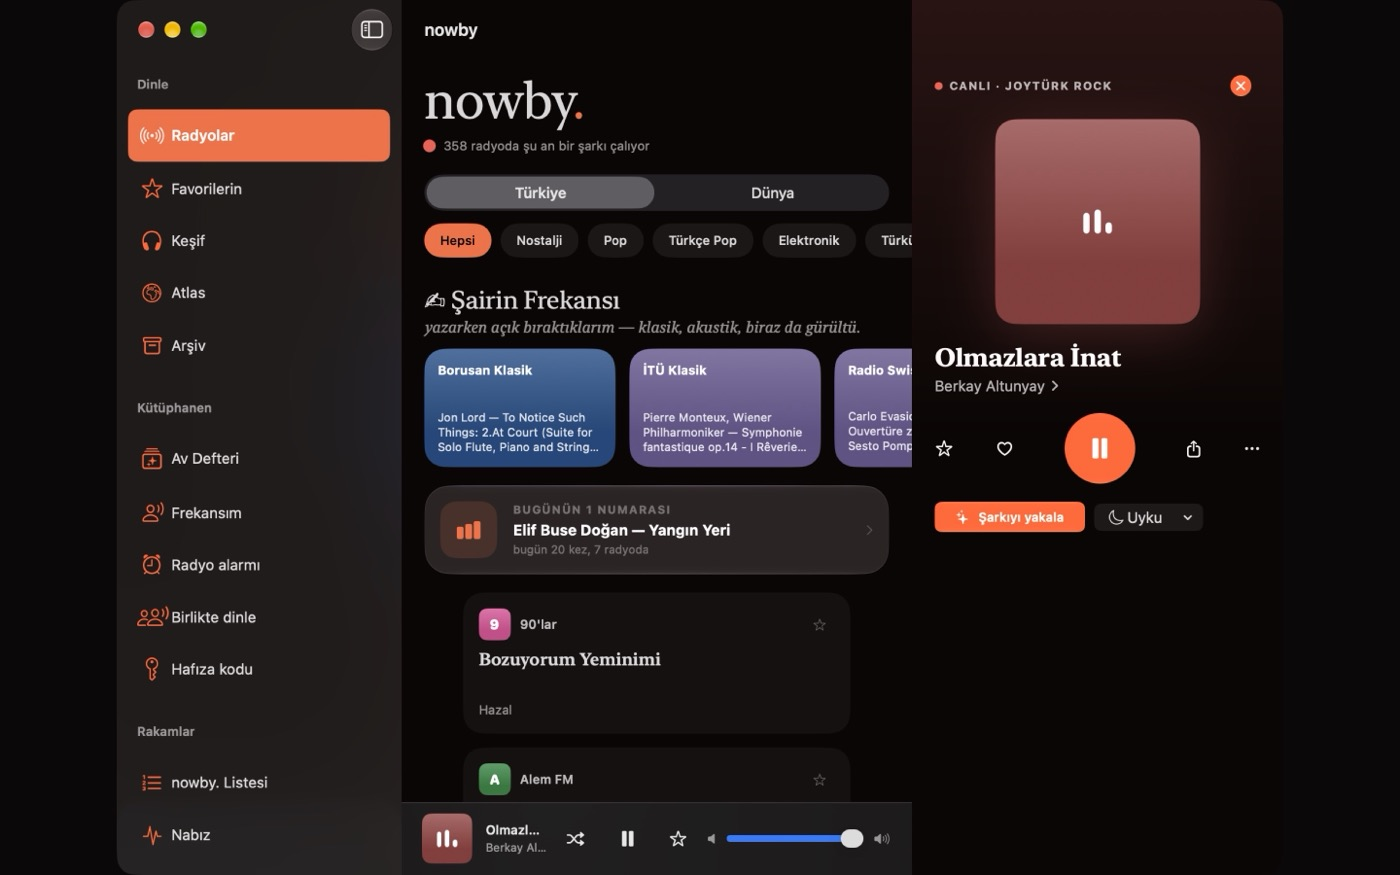
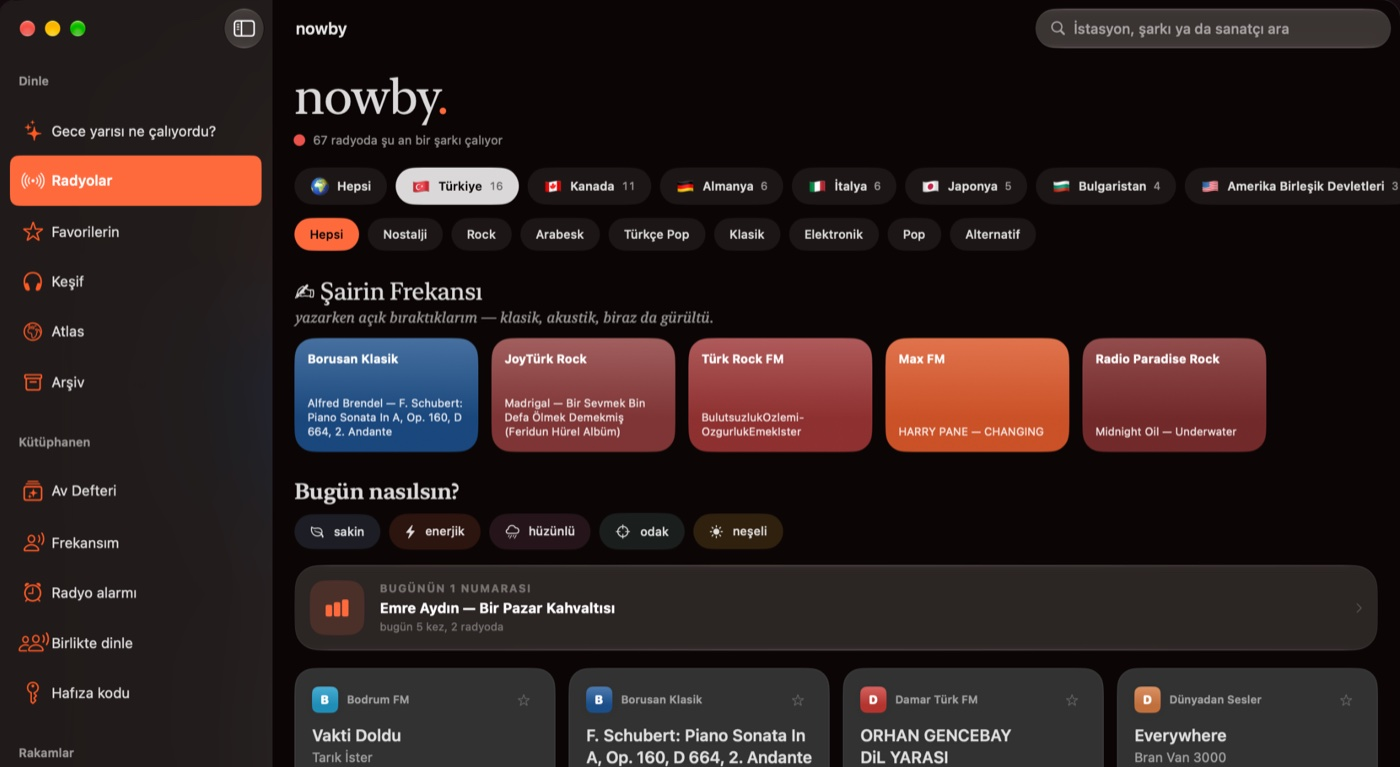
Uygulamalar (/by): her uygulamada nerede olduğu (App Store, Microsoft Store, Android testte, Watch yakında, web), nowby'a güncel Mac kartı; basın kiti 75 radyo / 19 ülke

diff --git a/components/AtolyeMetinleri.ts b/components/AtolyeMetinleri.ts
@@ -22,6 +22,12 @@ export const ATOLYE_TR: AtolyeMetin = {
       id: "hereby", ad: "hereby", renk: MOR, soru: "Nerede?", href: "/hereby", link: "hereby.'yi tanı",
       m: "Aklından geçen satırı geçtiğin yere bırak. Onu yalnızca oraya gelen biri okuyabilir. Kitaplardan satırlarla şiir yürüyüşleri, zaman kapsülleri, kendine notlar.",
       ilke: "Hiçbir iz sayılmaz, sıralanmaz.",
+      durum: [
+        { c: "iPhone", d: "App Store'da", href: "https://apps.apple.com/app/id6825787016" },
+        { c: "Apple Watch", d: "Yakında" },
+        { c: "Android", d: "Testte" },
+        { c: "Web", d: "Işık haritası", href: "/hereby" },
+      ],
       video: "/by/hereby-koyu.mp4", poster: "/by/hereby-koyu.jpg", telefon: "hereby. uygulamasının ekranı",
       adimlar: [
         { b: "Bırak.", s: "Bir vapur iskelesinde, bir merdivende, bir sahilde aklından geçeni yaz. En fazla 280 karakter." },
@@ -33,9 +39,16 @@ export const ATOLYE_TR: AtolyeMetin = {
       id: "nowby", ad: "nowby", renk: TURUNCU, soru: "Ne zaman?", href: "/nowby", link: "nowby'ı tanı",
       m: "Radyolarda şu an ne çalıyor? Yayınlarını paylaşmamıza izin veren radyolar tek ekranda, canlı. Gerçek sayıma dayanan listeler, dünyanın radyoları, kitaplardan dizelerle Frekans Falı.",
       ilke: "Şarkıları sayar, insanları değil.",
-      cihazBaslik: "Dört cihazda aynı radyo, aynı şarkı.",
+      durum: [
+        { c: "iPhone · iPad · Mac · Apple TV · Apple Watch · CarPlay", d: "App Store'da", href: "https://apps.apple.com/app/id6825787056" },
+        { c: "Windows", d: "Microsoft Store'da", href: "https://apps.microsoft.com/detail/9PFGNB14G620" },
+        { c: "Android", d: "Testte" },
+        { c: "Web", d: "nowby.co", href: "https://nowby.co" },
+      ],
+      cihazBaslik: "Her ekranda aynı radyo, aynı şarkı.",
       cihazlar: [
         { tur: "tv", c: "Apple TV", b: "Salonda, kocaman.", s: "Kanepeden okunan şarkı adları.", alt: "nowby. Apple TV'de: şu an çalan şarkı büyük ekranda" },
+        { tur: "mac", c: "Mac", b: "Masanda, yan panelde.", s: "Kenar çubuğu, şarkı kartları, altta boydan boya çalar.", alt: "nowby. Mac'te: kenar çubuğu ve radyo kartları" },
         { tur: "ipad", c: "iPad", b: "Kucağında, üç sütun.", s: "Kenar çubuğu, şarkı kartları ve büyük çalar aynı ekranda.", alt: "nowby. iPad'de: üç sütunlu ekran" },
         { tur: "iphone", c: "iPhone", b: "Cebinde, canlı.", s: "İzin veren radyolar, şu an çalan şarkılarıyla.", alt: "nowby. iPhone'da: canlı radyo listesi" },
         { tur: "saat", c: "Apple Watch", b: "Bileğinde, tek dokunuş.", s: "Telefondaki çaların kumandası; şarkıyı oradan yakala.", alt: "nowby. Apple Watch'ta: çalan şarkı ve Yakala düğmesi" },
@@ -45,6 +58,11 @@ export const ATOLYE_TR: AtolyeMetin = {
       id: "writtenby", ad: "writtenby", renk: MOR, soru: "Kim?", href: "/writtenby", link: "writtenby.'yi tanı",
       m: "Bir şehrin yazdığı kitap. Her gün herkese aynı soru; bulunduğun yerden tek bir satır. Satırını yalnızca oraya gelenler okur. Yıl sonunda bu satırlardan basılı bir kitap kurulur; izin vermediğin hiçbir satır basılmaz. İlk kitap: İstanbul 2027.",
       ilke: "Kitaba girmek bir ödül değil, bir derleme kararı.",
+      durum: [
+        { c: "iPhone", d: "hereby.'nin içinde", href: "https://apps.apple.com/app/id6825787016" },
+        { c: "Deneme dönemi", d: "Kitap 1 Ocak'ta başlıyor" },
+        { c: "Android", d: "Planlanıyor" },
+      ],
       video: "/by/writtenby-koyu.mp4", poster: "/by/writtenby-koyu.jpg", telefon: "writtenby. ekranı: günün sorusu, tek satır ve basım izni",
       adimlar: [
         { b: "Günün sorusu.", s: "Her sabah herkese aynı soru gelir. İstersen soruyu bırakıp özgür bir satır da yazabilirsin." },
@@ -91,6 +109,12 @@ export const ATOLYE_EN: AtolyeMetin = {
       id: "hereby", ad: "hereby", renk: MOR, soru: "Where?", href: "/en/hereby", link: "Meet hereby.",
       m: "Leave the line on your mind at the place you pass. Only someone who comes to that place can read it. Poetry walks with lines from the books, time capsules, notes to self.",
       ilke: "No trace is counted or ranked.",
+      durum: [
+        { c: "iPhone", d: "On the App Store", href: "https://apps.apple.com/app/id6825787016" },
+        { c: "Apple Watch", d: "Coming soon" },
+        { c: "Android", d: "In testing" },
+        { c: "Web", d: "Map of lights", href: "/en/hereby" },
+      ],
       video: "/by/hereby-koyu.mp4", poster: "/by/hereby-koyu.jpg", telefon: "The hereby. app screen",
       adimlar: [
         { b: "Leave.", s: "On a ferry pier, on a staircase, by the sea: write what is on your mind. 280 characters at most." },
@@ -102,9 +126,16 @@ export const ATOLYE_EN: AtolyeMetin = {
       id: "nowby", ad: "nowby", renk: TURUNCU, soru: "When?", href: "/en/nowby", link: "Meet nowby.",
       m: "What is playing on the radio right now? Stations that gave us permission to share their broadcasts, on one screen, live. Charts built on real airplay counts, the world's radio, and a Frequency Fortune with lines from the books.",
       ilke: "It counts songs, not people.",
-      cihazBaslik: "The same station, the same song on four devices.",
+      durum: [
+        { c: "iPhone · iPad · Mac · Apple TV · Apple Watch · CarPlay", d: "On the App Store", href: "https://apps.apple.com/app/id6825787056" },
+        { c: "Windows", d: "On the Microsoft Store", href: "https://apps.microsoft.com/detail/9PFGNB14G620" },
+        { c: "Android", d: "In testing" },
+        { c: "Web", d: "nowby.co", href: "https://nowby.co" },
+      ],
+      cihazBaslik: "The same station, the same song on every screen.",
       cihazlar: [
         { tur: "tv", c: "Apple TV", b: "In the living room, huge.", s: "Song titles you can read from the couch.", alt: "nowby. on Apple TV: the song playing now on the big screen" },
+        { tur: "mac", c: "Mac", b: "On your desk, in a side panel.", s: "A sidebar, song cards and a full-width player along the bottom.", alt: "nowby. on Mac: sidebar and station cards" },
         { tur: "ipad", c: "iPad", b: "On your lap, three columns.", s: "Sidebar, song cards and the big player on one screen.", alt: "nowby. on iPad: three-column layout" },
         { tur: "iphone", c: "iPhone", b: "In your pocket, live.", s: "Stations that gave permission, with the song playing right now.", alt: "nowby. on iPhone: the live station list" },
         { tur: "saat", c: "Apple Watch", b: "On your wrist, one tap.", s: "A remote for the player on your phone; catch the song from there.", alt: "nowby. on Apple Watch: the song playing and the Catch button" },
@@ -114,6 +145,11 @@ export const ATOLYE_EN: AtolyeMetin = {
       id: "writtenby", ad: "writtenby", renk: MOR, soru: "Who?", href: "/en/writtenby", link: "Meet writtenby.",
       m: "A book written by a city. Every day, the same question for everyone; one line from where you stand. Only those who come to that place can read it. At year's end the lines become a printed book, and no line is printed without permission. First book: Istanbul 2027.",
       ilke: "Getting into the book isn't a prize, it's an editorial choice.",
+      durum: [
+        { c: "iPhone", d: "Inside hereby.", href: "https://apps.apple.com/app/id6825787016" },
+        { c: "Trial period", d: "The book begins on January 1" },
+        { c: "Android", d: "Planned" },
+      ],
       video: "/by/writtenby-koyu.mp4", poster: "/by/writtenby-koyu.jpg", telefon: "The writtenby. screen: the question of the day, one line and print permission",
       adimlar: [
         { b: "The question of the day.", s: "Every morning everyone gets the same question. You can also skip it and write a free line." },

diff --git a/components/AtolyeSayfa.tsx b/components/AtolyeSayfa.tsx
@@ -36,6 +36,8 @@ type Is = {
   adimlar?: Adim[];
   cihazBaslik?: string; cihazlar?: Cihaz[];
   ek?: { etiket: string; link: string; href: string };
+  /* Nerede var: platform ve durum (App Store'da, Testte, Yakında…); href varsa mağazaya gider. */
+  durum?: { c: string; d: string; href?: string }[];
 };
 type Soru = { b: string; s: string; h: string; n: string };
 export type AtolyeMetin = {
@@ -49,7 +51,7 @@ export type AtolyeMetin = {
 
 const CIHAZ_GORSEL: Record<Cihaz["tur"], [string, number, number]> = {
   tv: ["/by/cihaz/tv.jpg", 1600, 900],
-  mac: ["/by/cihaz/mac.jpg", 1400, 875],
+  mac: ["/by/cihaz/mac.jpg", 1400, 767],
   ipad: ["/by/cihaz/ipad.jpg", 825, 1100],
   iphone: ["/by/cihaz/iphone.jpg", 557, 1240],
   saat: ["/by/cihaz/saat.jpg", 416, 496],
@@ -100,12 +102,39 @@ function Adimlar({ i }: { i: Is }) {
   );
 }
 
+function Durum({ i }: { i: Is }) {
+  if (!i.durum) return null;
+  return (
+    <ul style={{ listStyle: "none", padding: 0, margin: "1.8rem 0 0", display: "flex", flexWrap: "wrap", gap: "0.7rem 1.6rem" }}>
+      {i.durum.map((d) => {
+        const ic = (
+          <>
+            <span style={{ fontWeight: 600 }}>{d.c}</span>
+            <span style={{ ...mono, fontSize: "0.62rem", color: d.href ? i.renk : "inherit", opacity: d.href ? 1 : 0.6 }}>{d.d}</span>
+          </>
+        );
+        /* Gazete teması bağlantılara alt çizgi veriyor; bağlantısız satırlar da aynı çizgide, kesik. */
+        const st: React.CSSProperties = { display: "inline-flex", alignItems: "baseline", gap: "0.6rem", padding: "2px 0", color: "inherit", textDecoration: "none", fontSize: "0.95rem" };
+        const stDuz: React.CSSProperties = { ...st, borderBottom: "1px dashed var(--glass-border)" };
+        return (
+          <li key={d.c}>
+            {d.href ? <a href={d.href} target={d.href.startsWith("http") ? "_blank" : undefined} rel="noopener noreferrer" style={st}>{ic}</a> : <span style={stDuz}>{ic}</span>}
+          </li>
+        );
+      })}
+    </ul>
+  );
+}
+
 function Linkler({ i }: { i: Is }) {
   return (
+    <>
+    <Durum i={i} />
     <p style={{ marginTop: "1.8rem", display: "flex", gap: "1.6rem", flexWrap: "wrap" }}>
       <Link href={i.href} style={{ ...mono, color: i.renk, textDecoration: "none" }}>{i.link}</Link>
       {i.ek && <Link href={i.ek.href} style={{ ...mono, color: "inherit", opacity: 0.75, textDecoration: "none" }}>{i.ek.etiket} · {i.ek.link}</Link>}
     </p>
+    </>
   );
 }
 

diff --git a/lib/basinKiti.ts b/lib/basinKiti.ts
@@ -30,14 +30,14 @@ export const RAKAMLAR: { deger: string; aciklama: string }[] = [
   { deger: "#1", aciklama: "Trendyol şiir — en çok ziyaret edilen: Mürekkep ve Köz" },
   { deger: "10/10", aciklama: "1000Kitap okur puanı" },
   { deger: "12", aciklama: "basın çıkışı: dergi, gazete, haber sitesi ve TV (2026)" },
-  { deger: "65", aciklama: "radyonun yazılı izni, 18 ülkeden (nowby.)" },
+  { deger: "75", aciklama: "radyonun yazılı izni, 19 ülkeden (nowby.)" },
   { deger: "2 + 1 + 2", aciklama: "kitap, kısa film ve uygulama — on ay içinde" },
   { deger: "8 yıl", aciklama: "ilk dizeden ilk kitaba (2017–2025)" },
 ];
 
 export const KONULAR: string[] = [
   "Havalimanında gece vardiyası: sekiz yıl sessizlikten sonra on ayda iki kitap, bir film ve iki uygulama",
-  "Radyolara tek tek mektup yazan şair: nowby. için 18 ülkeden 65 radyonun yazılı izni",
+  "Radyolara tek tek mektup yazan şair: nowby. için 19 ülkeden 75 radyonun yazılı izni",
   "Satırlar yalnızca yerinde açılıyor: hereby. ve şehre bırakılan edebiyat izleri (Orhan Veli, Sait Faik)",
   "Yazarını sanık koltuğuna oturtan kitap: Tasfiye'nin mahkeme konsepti",
   "Kitaptan filme: metni kitaptan, sesi yazardan olan TASFİYE: Film",
